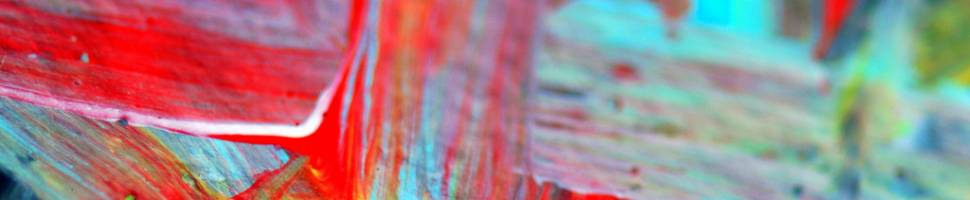
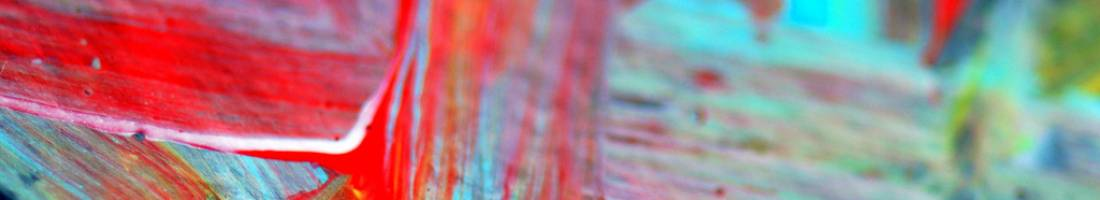
Added border-radius to slider

diff --git a/css/style.css b/css/style.css
@@ -344,30 +344,25 @@ body {
         margin: 10px auto; 
 	background: #F4F4F4; /*<- lightgrey*//*background: #f4f4f4 url(subheaderbg.gif) no-repeat;*/
 	color: #808080;
-	border-radius: 5px;
 }
 
 .myslider img {
 	width: 100%;
 	height: auto;
-        
 }
 
 #slider-wrapper {
-    
 
     margin:0 auto;
     padding-top:74px;
     margin-top:50px;
-
 }
 
 #slider {
     position:relative;
     width:100%;
     height:auto;
-    background:url(../images/slider/loading.gif) no-repeat 50% 50%;
-    border-radius: 5px;
+    background:url(../images/slider/loading.gif) no-repeat 50% 50%;   
 }
 #slider img {
     position:absolute;
@@ -383,7 +378,7 @@ body {
 
 .nivo-controlNav {
 	position:absolute;
-	left:45%;
+	left:50%;
 	bottom:-2px;
 }
 .nivo-controlNav a {

diff --git a/css/nivo-slider.css b/css/nivo-slider.css
@@ -13,12 +13,14 @@
 /* The Nivo Slider styles */
 .nivoSlider {
 	position:relative;
+        border-radius:5px; 
+        
 }
 .nivoSlider img {
 	position:absolute;
 	top:0px;
 	left:0px;
-        border-radius: 5px;
+        
 }
 /* If an image is wrapped in a link */
 .nivoSlider a.nivo-imageLink {
@@ -39,6 +41,8 @@
 	position:absolute;
 	z-index:5;
 	height:100%;
+        border-radius:5px;
+        
 }
 .nivo-box {
 	display:block;

diff --git a/application/views/blocks/slider_view.php b/application/views/blocks/slider_view.php
@@ -1,14 +1,38 @@
 <?php if(($page_info['title_url'] == 'home')) {?>
-
-<div class="myslider" id="slider" class="theme-default" >
-    <img src="<?=base_url();?>images/slider/abstract-q-c-970-200-1.jpg" alt="" />
-    <img src="<?=base_url();?>images/slider/abstract-q-c-970-200-2.jpg" alt="" />
-    <img src="<?=base_url();?>images/slider/abstract-q-c-970-200-3.jpg" alt="" />
-</div> 
- 
+    <div class="myslider" id="slider" class="theme-default" >
+        <img src="<?=base_url();?>images/slider/abstract-q-c-970-200-1.jpg" alt="" />
+        <img src="<?=base_url();?>images/slider/abstract-q-c-970-200-2.jpg" alt="" />
+        <img src="<?=base_url();?>images/slider/abstract-q-c-970-200-3.jpg" alt="" />
+    </div> 
 <script type="text/javascript">
-    $(window).load(function() {
-        $('#slider').nivoSlider();
+   $(window).load(function() {
+    $('#slider').nivoSlider({
+        effect:'fade', // Выберите эффекты: 'fold,fade,sliceDown'
+        slices:15, // Для slice animations
+        boxCols: 8, // Для box animations
+        boxRows: 4, // Для box animations
+        animSpeed:600, // Скорость смены слайдов
+        pauseTime:3000, // Время показа одного слайда
+        startSlide:0, // Настройка запуска Slide (0 index)
+        directionNav:true, // Использование навигации Вперед, Назад
+        directionNavHide:true, // Показывать только при наведении мыши
+        controlNav:true, // 1,2,3... навигация
+        controlNavThumbs:false, // Использовать миниатюры для навигации
+        controlNavThumbsFromRel:false, // Use image rel for thumbs
+        controlNavThumbsSearch: '.jpg', // Replace this with...
+        controlNavThumbsReplace: '_thumb.jpg', // ...this in thumb Image src
+        keyboardNav:true, // Использовать стрелки Влево и Вправо
+        pauseOnHover:true, // Остановка навигации при наведении
+        manualAdvance:false, // Force manual transitions
+        captionOpacity:0.8, // Прозрачность описания
+        prevText: 'Назад', // Назад directionNav текст
+        nextText: 'Вперед', // Вперед directionNav текст
+        beforeChange: function(){}, // Triggers before a slide transition
+        afterChange: function(){}, // Triggers after a slide transition
+        slideshowEnd: function(){}, // Triggers after all slides have been shown
+        lastSlide: function(){}, // Triggers when last slide is shown
+        afterLoad: function(){} // Triggers when slider has loaded
     });
+});
     </script> 
 <?php } ?>
